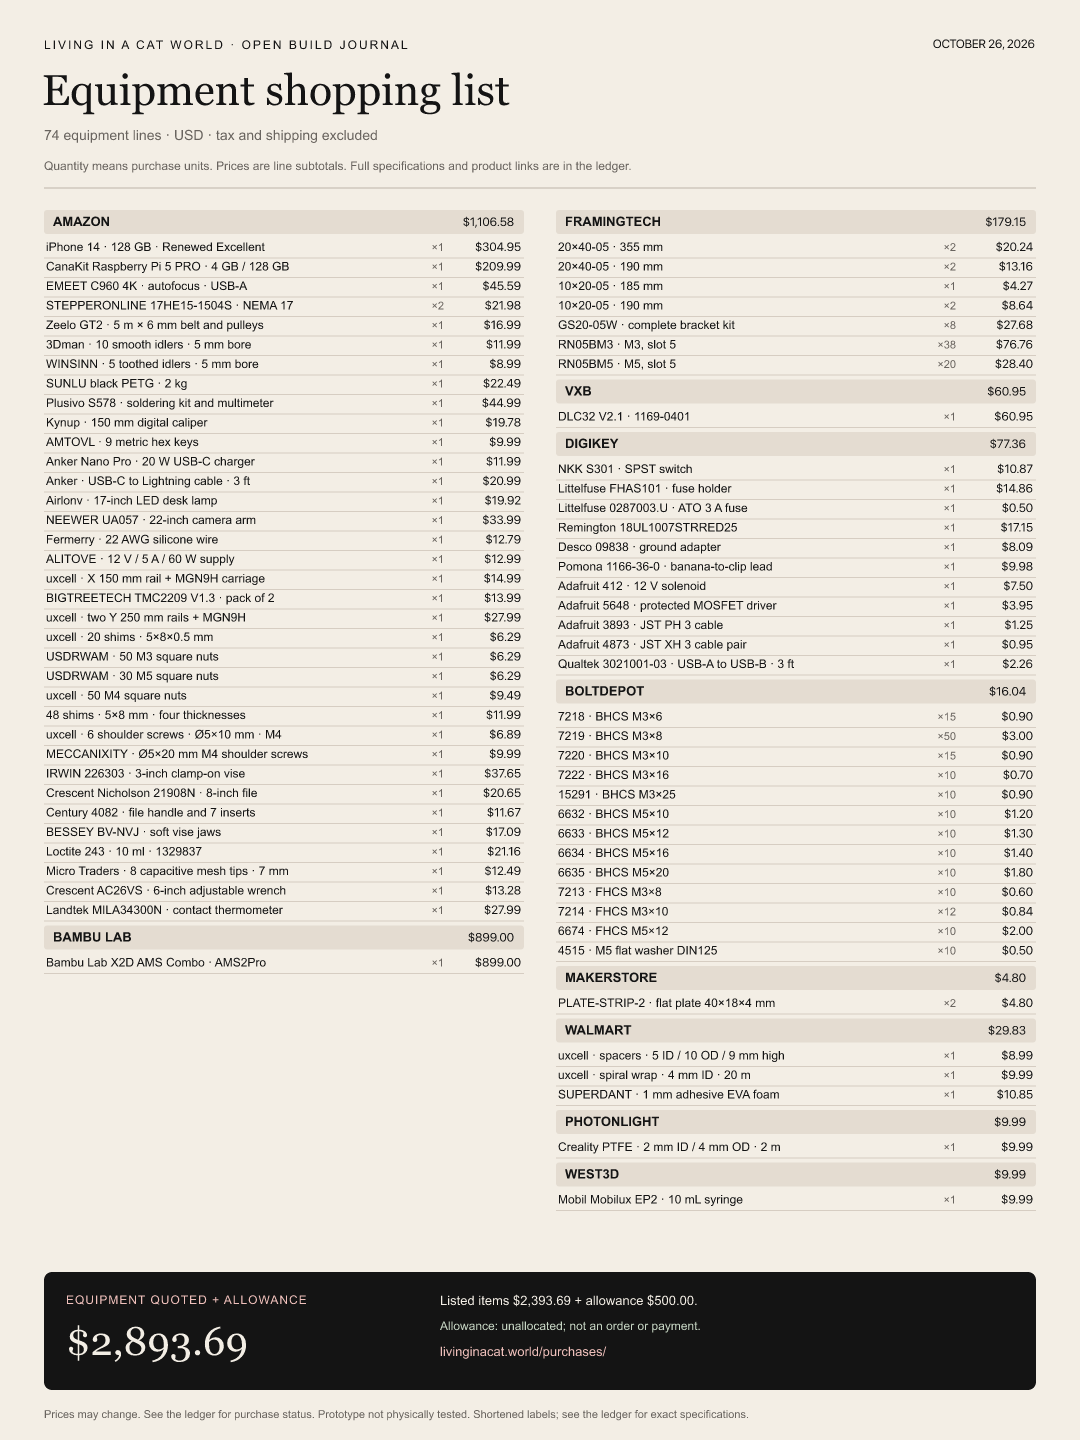
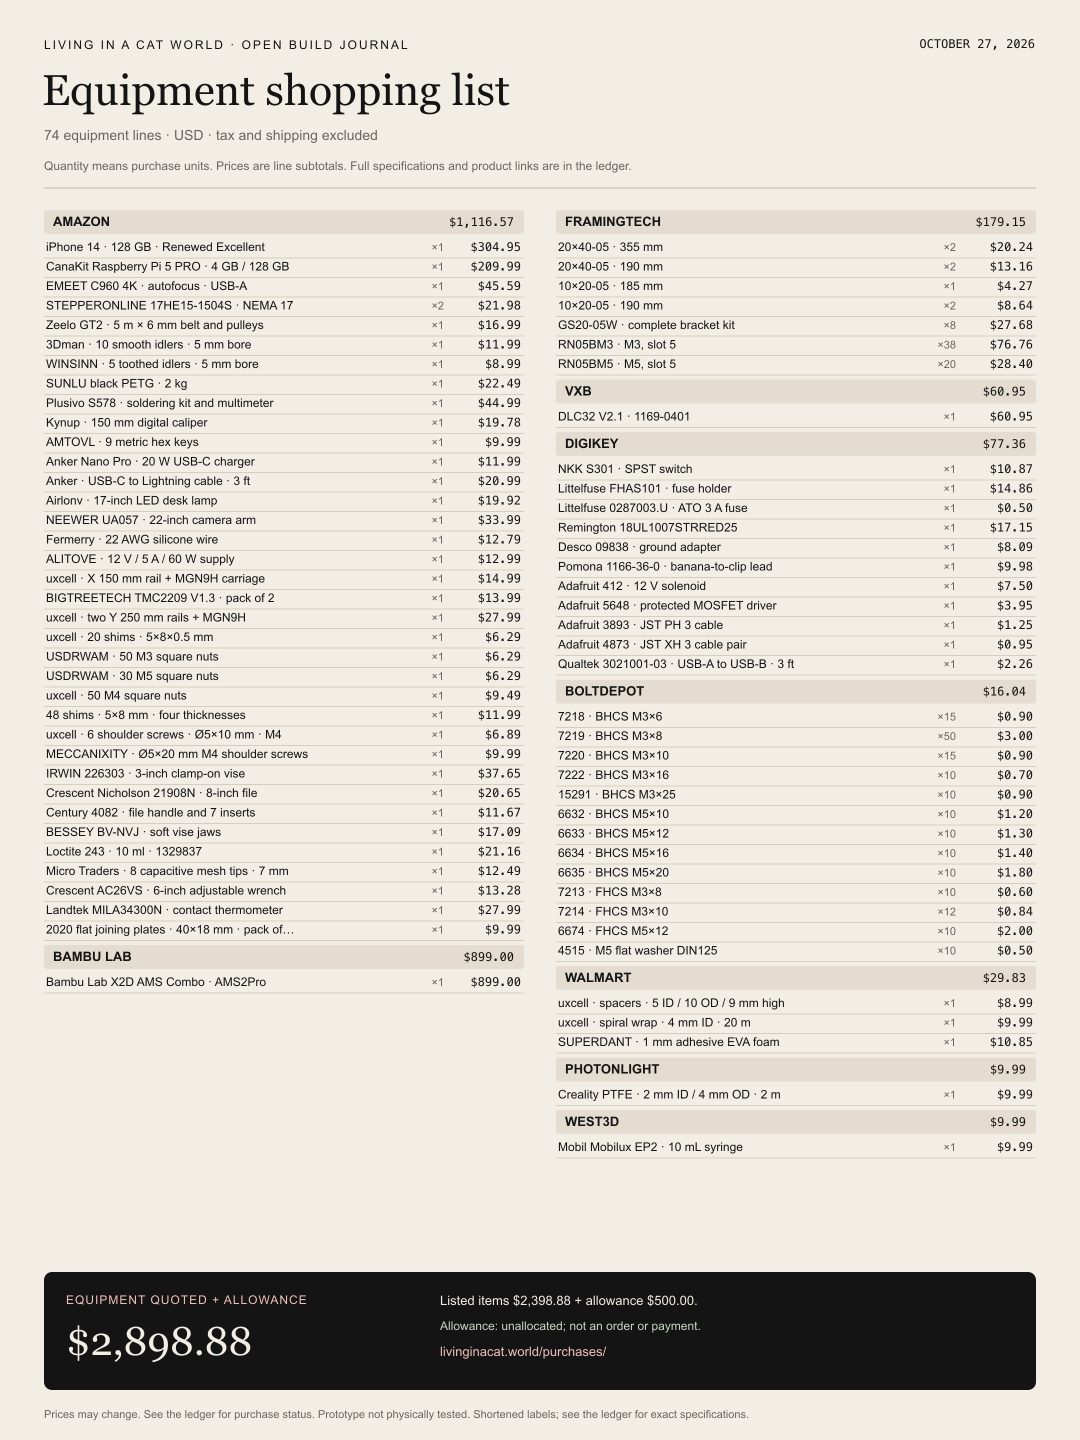
Replace withdrawn plate quote with purchased Amazon plates

diff --git a/backend/public/admin.js b/backend/public/admin.js
@@ -159,8 +159,13 @@ function state(p) {
   if (p.shippingStatus === "on_hold") return ["On hold", ""];
   return [p.tracking ? "Needs invoice PDF" : "Awaiting tracking", ""];
 }
+const activeOrders = () => data.orders.filter((o) => o.status !== "removed_from_project");
+const activePackages = () => {
+  const active = new Set(activeOrders().map((o) => o.id));
+  return data.packages.filter((p) => active.has(p.orderId));
+};
 function render() {
-  const ps = data.packages,
+  const ps = activePackages(),
     counts = [
       ps.length,
       ps.filter(
@@ -177,7 +182,7 @@ function render() {
     .join("");
   $("#package-count").textContent = ps.length;
   renderPackages();
-  $("#orders").innerHTML = data.orders
+  $("#orders").innerHTML = activeOrders()
     .map(
       (o) =>
         `<article class="order"><div><h3>${esc(o.vendor)}</h3><div class="order-reference">${esc(o.orderReference || "Not ordered")} · ${esc(o.id)}</div></div><div class="order-body"><strong>${esc(o.title)}</strong><p>${esc(o.notes)}</p><p>${esc(o.status.replaceAll("_", " "))} · ${o.orderedAt ? date(o.orderedAt) : "No purchase confirmed"}</p></div><div class="price">${money(o.totalCents)}<small>${o.status === "deferred" ? "QUOTED" : "ORDER TOTAL"}</small></div></article>`,
@@ -193,7 +198,7 @@ function render() {
 function renderPackages() {
   const query = $("#search").value.toLowerCase(),
     filter = $("#filter").value;
-  const visible = data.packages.filter((p) => {
+  const visible = activePackages().filter((p) => {
     const o = data.orders.find((o) => o.id === p.orderId);
     if (
       ![o?.vendor, p.title, p.contents, p.tracking, p.carrier]
@@ -273,7 +278,7 @@ function openEditor(p) {
   f.reset();
   $("#editor-error").textContent = "";
   $("#order-label").hidden = !!p;
-  f.elements.orderId.innerHTML = data.orders
+  f.elements.orderId.innerHTML = activeOrders()
     .map(
       (o) =>
         `<option value="${esc(o.id)}">${esc(o.vendor)} · ${esc(o.orderReference || o.id)}</option>`,

diff --git a/content/posts/03-parts-on-the-way.md b/content/posts/03-parts-on-the-way.md
@@ -30,7 +30,7 @@ The printer is $789.00 before the $30.00 printer coupon, and the adapter is $32.
 
 The original equipment planning estimate remains **$2,893.69**, including the owner's $500 unallocated allowance. It is a historical quote, not the amount spent: for example, it used the original $899 printer quote. Confirmed order totals and shipping charges belong in the purchase ledger instead.
 
-As of this update, confirmed vendor order totals plus the first year of the domain add up to **$2,989.21**. This figure excludes MakerStore's **$10.18 provisional invoice request**, future forwarding costs, any further shipping adjustment and AI usage. It includes order totals that have not all been independently verified against bank charges; it is not a reconciled cash-spending total. FramingTech's shipping may change after weighing.
+As of this update, confirmed vendor order totals plus the first year of the domain add up to **$2,989.21**. This figure excludes future forwarding costs, any further shipping adjustment and AI usage. It includes order totals that have not all been independently verified against bank charges; it is not a reconciled cash-spending total. FramingTech's shipping may change after weighing.
 
 The [purchase record](/purchases/) keeps the quotes, vendor totals, actual tax, grouped other expenses and evidence level separate. We have not reconciled the contributions received, so there is no public balance yet.
 

diff --git a/docs/DATA.md b/docs/DATA.md
@@ -15,7 +15,7 @@ Public source: `data/ledger.json`. USD amounts are integer cents. `null` means u
 
 ## Initial evidence
 
-FramingTech: payment email and PDF confirmation. GoDaddy: email receipt. Amazon: authenticated order details, order invoices and tracking pages. DigiKey and BoltDepot: vendor order confirmation emails, without shipment or settled-payment evidence. Walmart: confirmation email and authenticated order details; fulfillment groups at Placed status and estimated arrival windows are not dispatched packages. MakerStore: Custom Invoice acknowledgement with provisional shipping, awaiting final invoice and payment. Private originals stay outside the repository. AMZ codes are public references independent of actual order numbers.
+FramingTech: payment email and PDF confirmation. GoDaddy: email receipt. Amazon: authenticated order details, order invoices and tracking pages. DigiKey and BoltDepot: vendor order confirmation emails, without shipment or settled-payment evidence. Walmart: confirmation email and authenticated order details; fulfillment groups at Placed status and estimated arrival windows are not dispatched packages. Private originals stay outside the repository. AMZ codes are public references independent of actual order numbers.
 
 ## Updating
 

diff --git a/hardware/ft412/README.md b/hardware/ft412/README.md
@@ -19,7 +19,7 @@ Read `PUBLIC-RELEASE.md` first. Print only final files in `stl/` with quantities
 | M5 T-nuts | 20 RN05BM5; allocation below |
 | Actuator | Adafruit 412, 12 V / 0.3 A, 14×17×29.7 mm body; 4.9 mm drawing stroke |
 | Tip | Micro Traders B0DSVSVSZN, Ø8.9×4.5 mm metal collar, Ø7 mm mesh |
-| Remaining metal plates | 2 MakerStore 40×18×4 mm rear-idler braces |
+| Remaining metal plates | 2 rear-idler braces from the purchased 40×18 mm joining plate pack; thickness and fit to be verified |
 
 Profiles are metric 10×20 and 20×40, not imperial 1010/1020. The FramingTech STEP slot opening is at least 5.15 mm. Earlier MISUMI slot-6 nuts are not used. Amazon square M3/M4/M5 nuts fit printed pockets and do not automatically replace FramingTech T-nuts.
 

diff --git a/content/posts/02-first-purchases.md b/content/posts/02-first-purchases.md
@@ -66,7 +66,6 @@ The item quote is distributed as follows:
 | VXB | $60.95 | Deferred after a checkout problem |
 | DigiKey | $77.36 | Consolidated cart prepared; no confirmed payment |
 | BoltDepot | $8.22 | Cart prepared |
-| MakerStore | $4.80 | Shipping requires confirmation |
 | Walmart | $29.83 | Cart prepared |
 | PhotonLight | $9.99 | Cart prepared |
 | West3D | $9.99 | Cart prepared |
